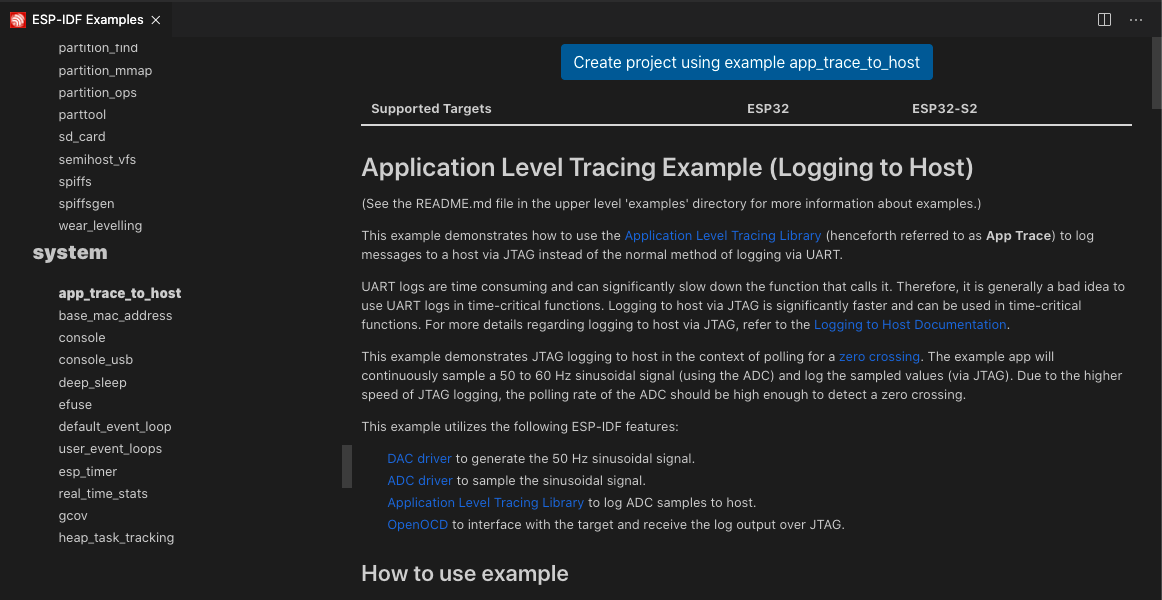
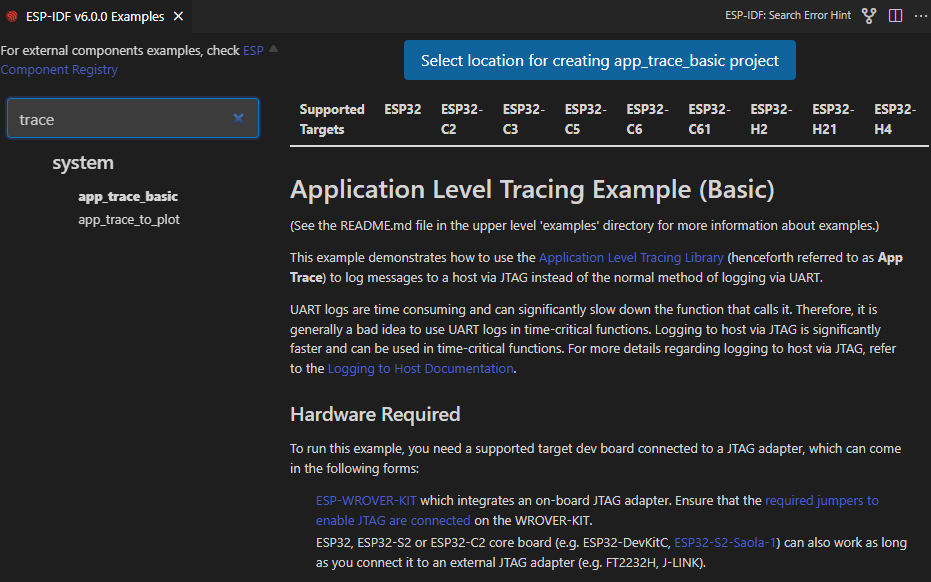
Update documentation for app trace

diff --git a/docs_espressif/en/additionalfeatures/app-tracing.rst b/docs_espressif/en/additionalfeatures/app-tracing.rst
@@ -5,7 +5,7 @@ This feature allows to transfer arbitrary data between host and ESP32 via JTAG i
 
 Developers can use this library to send application specific state of execution to the host and receive commands or other type of info in the opposite direction at runtime.
 
-Let's open a ESP-IDF project. For this tutorial we will use the `system/app_trace_to_host <https://github.com/espressif/esp-idf/tree/master/examples/system/app_trace_to_host>`_ example.
+Let's open a ESP-IDF project. For this tutorial we will use the `system/app_trace_basic <https://github.com/espressif/esp-idf/tree/master/examples/system/app_trace_basic>`_ example.
 
 - Navigate to **View** > **Command Palette**.
 
@@ -13,7 +13,7 @@ Let's open a ESP-IDF project. For this tutorial we will use the `system/app_trac
 
 If you don't see the option, please review the setup in :ref:`Install ESP-IDF and Tools <installation>`.
 
-- A window will be open with settings to configure the project. Later you can choose from a list a ESP-IDF examples, go the **system** section and choose the ``app_trace_to_host``. You will see a **Create Project Using Example app_trace_to_host** button in the top and a description of the project below. Click the button and the project will be opened in a new window.
+- A window will be open with settings to configure the project. Later you can choose from a list a ESP-IDF examples, go the **system** section and choose the ``app_trace_basic``. You will see a **Create Project Using Example app_trace_basic project** button in the top and a description of the project below. Click the button and the project will be opened in a new window.
 
 .. image:: ../../../media/tutorials/app_trace/app_tracing.png
 
